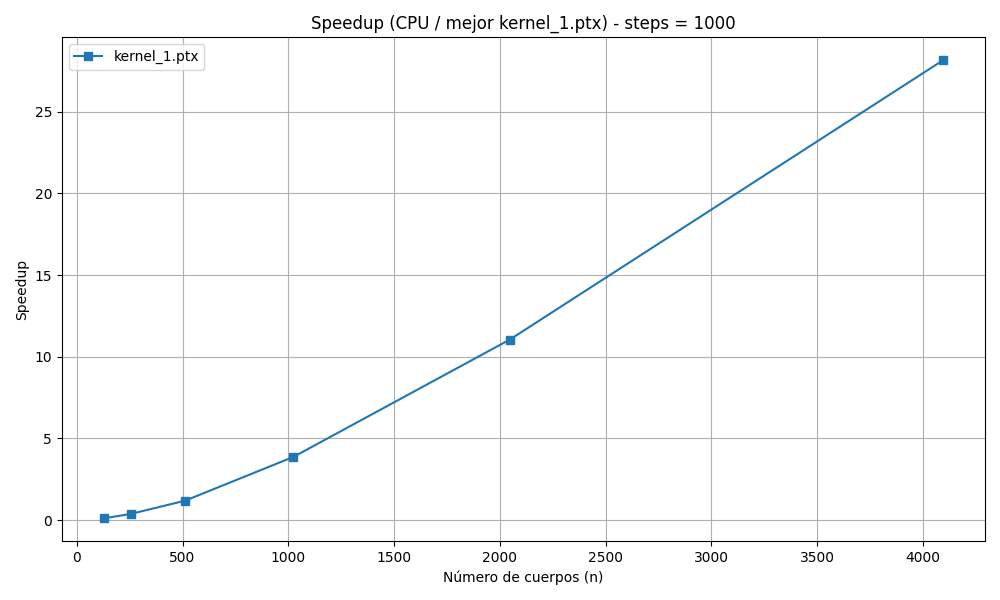
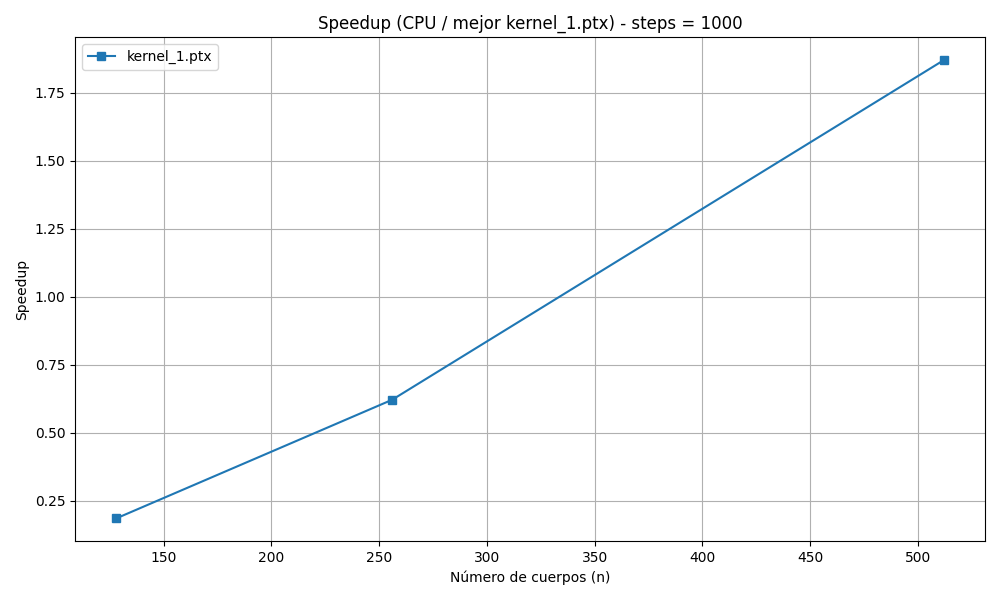
(CUDA) agrega resultados hasta n = 512

diff --git a/nbody_cuda/src/main.cpp b/nbody_cuda/src/main.cpp
@@ -48,7 +48,7 @@ void benchmarkGPU(int n, int steps, float dt, std::ofstream& out,
 int main() {
     const float dt = 0.01f;
 
-    std::vector<int> sizes = {128, 256, 512, 1024, 2048, 4096};
+    std::vector<int> sizes = {128, 256, 512};
     std::vector<int> stepsList = {10, 100, 1000};
     std::vector<size_t> localSizes = {32, 64, 70, 96, 100, 128};
 
